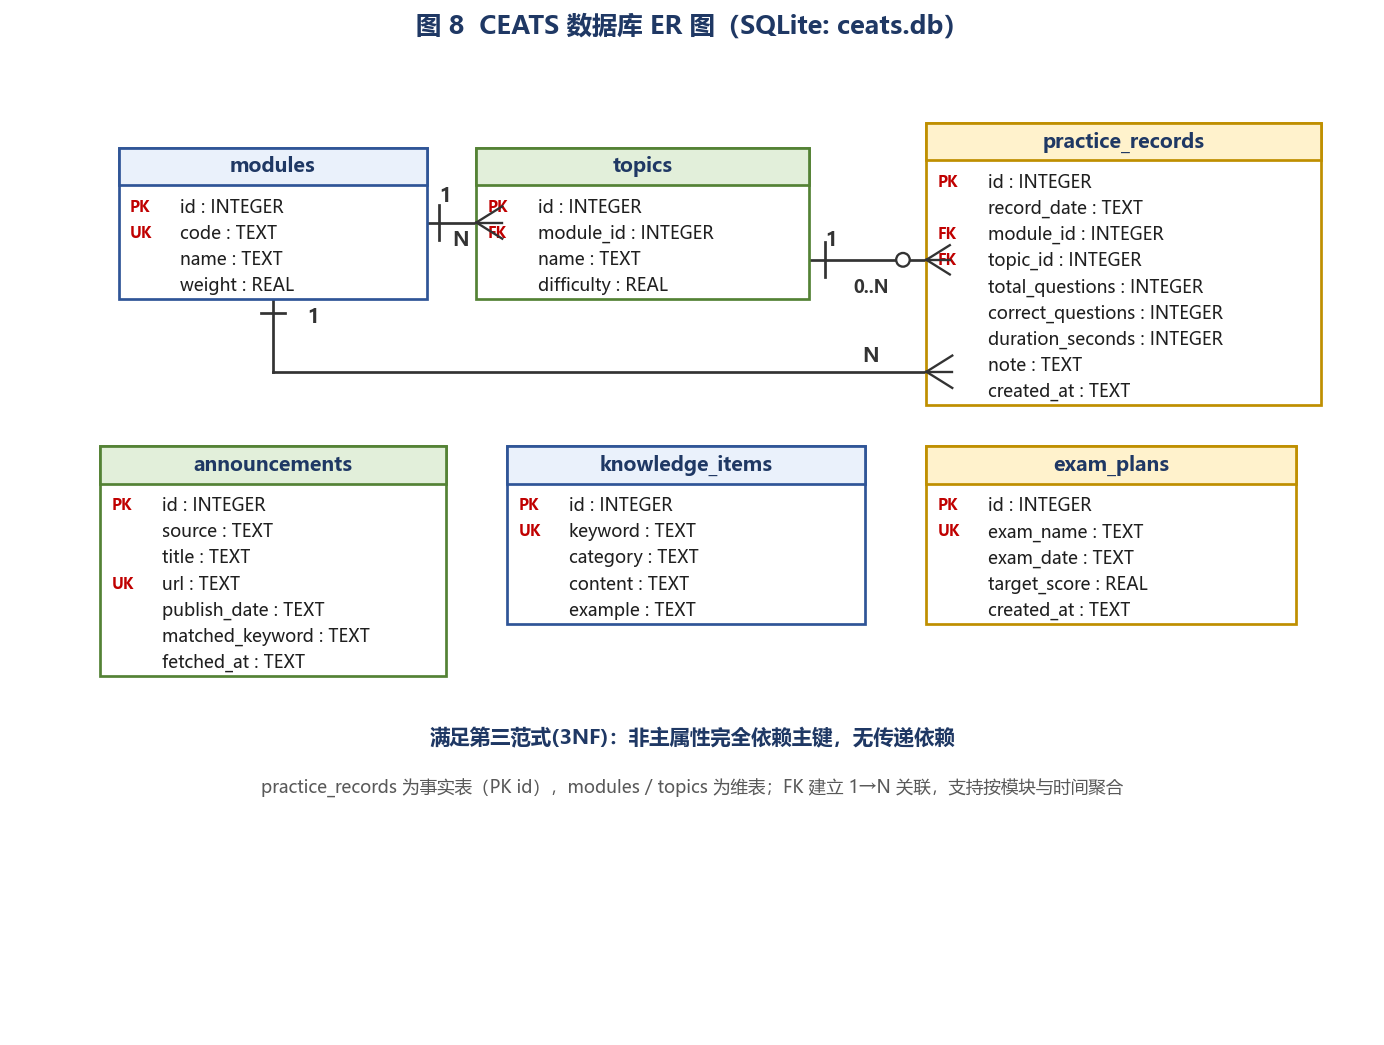
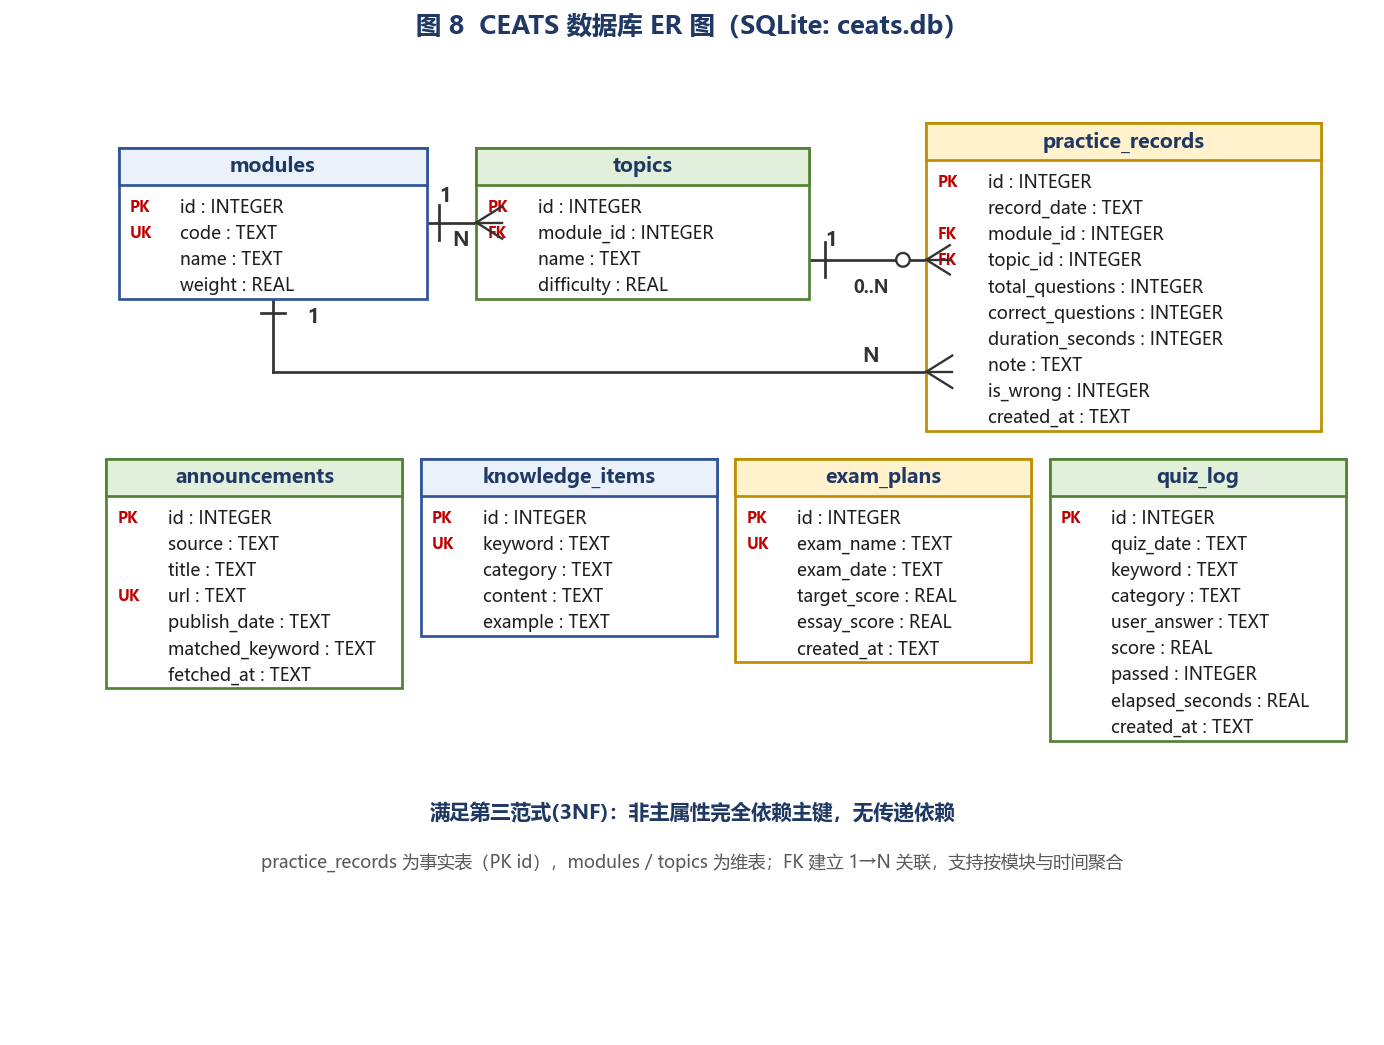
fix(docs): 修正数据库 ER 图缺失的表与字段
ER 图停留在早期版本，与 database.py 的实际建表语句不符：
补上遗漏的 quiz_log 表（9 个字段），并为 practice_records 补 is_wrong、
为 exam_plans 补 essay_score，标题改为 7 张表。

Changed region(s): [[0.0621, 0.3675, 0.9942, 0.7349], [0.1864, 0.6737, 0.8078, 0.8268], [0.1864, 0.7962, 0.2175, 0.8268]]

diff --git a/docs/diagrams/generate_diagrams.py b/docs/diagrams/generate_diagrams.py
@@ -682,7 +682,7 @@ def crow_foot(ax, x, y, sign=1, size=0.42, color=C_LINE, lw=1.2):
 
 
 def draw_er_diagram():
-    """绘制数据库 ER 图（6 张表 + 1:N 关系 + 3NF 说明）。"""
+    """绘制数据库 ER 图（7 张表 + 1:N 关系 + 3NF 说明）。"""
     fig, ax = fig_ax(12.5, 9, (-1, 21), (0, 15.6),
                      "图 8  CEATS 数据库 ER 图（SQLite: ceats.db）")
 
@@ -698,19 +698,26 @@ def draw_er_diagram():
                 ("FK", "module_id : INTEGER"), ("FK", "topic_id : INTEGER"),
                 ("", "total_questions : INTEGER"), ("", "correct_questions : INTEGER"),
                 ("", "duration_seconds : INTEGER"), ("", "note : TEXT"),
-                ("", "created_at : TEXT")], fc="#FFF2CC", ec=C_UC_EDGE)
-    entity_box(ax, 3.2, 9.4, 5.6, "announcements",
+                ("", "is_wrong : INTEGER"), ("", "created_at : TEXT")],
+               fc="#FFF2CC", ec=C_UC_EDGE)
+    entity_box(ax, 2.9, 9.2, 4.8, "announcements",
                [("PK", "id : INTEGER"), ("", "source : TEXT"), ("", "title : TEXT"),
                 ("UK", "url : TEXT"), ("", "publish_date : TEXT"),
                 ("", "matched_keyword : TEXT"), ("", "fetched_at : TEXT")],
                fc="#E2EFDA", ec=C_MOD_EDGE)
-    entity_box(ax, 9.9, 9.4, 5.8, "knowledge_items",
+    entity_box(ax, 8.0, 9.2, 4.8, "knowledge_items",
                [("PK", "id : INTEGER"), ("UK", "keyword : TEXT"), ("", "category : TEXT"),
                 ("", "content : TEXT"), ("", "example : TEXT")])
-    entity_box(ax, 16.8, 9.4, 6.0, "exam_plans",
+    entity_box(ax, 13.1, 9.2, 4.8, "exam_plans",
                [("PK", "id : INTEGER"), ("UK", "exam_name : TEXT"), ("", "exam_date : TEXT"),
-                ("", "target_score : REAL"), ("", "created_at : TEXT")],
+                ("", "target_score : REAL"), ("", "essay_score : REAL"),
+                ("", "created_at : TEXT")],
                fc="#FFF2CC", ec=C_UC_EDGE)
+    entity_box(ax, 18.2, 9.2, 4.8, "quiz_log",
+               [("PK", "id : INTEGER"), ("", "quiz_date : TEXT"), ("", "keyword : TEXT"),
+                ("", "category : TEXT"), ("", "user_answer : TEXT"), ("", "score : REAL"),
+                ("", "passed : INTEGER"), ("", "elapsed_seconds : REAL"),
+                ("", "created_at : TEXT")], fc="#E2EFDA", ec=C_MOD_EDGE)
 
     # modules 1 — N topics
     ax.add_line(Line2D([5.7, 6.5], [13.0, 13.0], color=C_LINE, lw=1.4, zorder=3))
@@ -735,9 +742,9 @@ def draw_er_diagram():
     text(ax, 12.25, 12.72, "1", fs=10, color=C_LINE, bold=True)
     text(ax, 12.9, 11.95, "0..N", fs=9, color=C_LINE, bold=True)
 
-    text(ax, 10.0, 4.7, "满足第三范式(3NF)：非主属性完全依赖主键，无传递依赖", fs=10.5,
+    text(ax, 10.0, 3.5, "满足第三范式(3NF)：非主属性完全依赖主键，无传递依赖", fs=10.5,
          color="#1F3864", bold=True)
-    text(ax, 10.0, 3.9, "practice_records 为事实表（PK id），modules / topics 为维表；"
+    text(ax, 10.0, 2.7, "practice_records 为事实表（PK id），modules / topics 为维表；"
                         "FK 建立 1→N 关联，支持按模块与时间聚合", fs=9, color=C_GRAY)
 
     return save(fig, "er_diagram.png")
